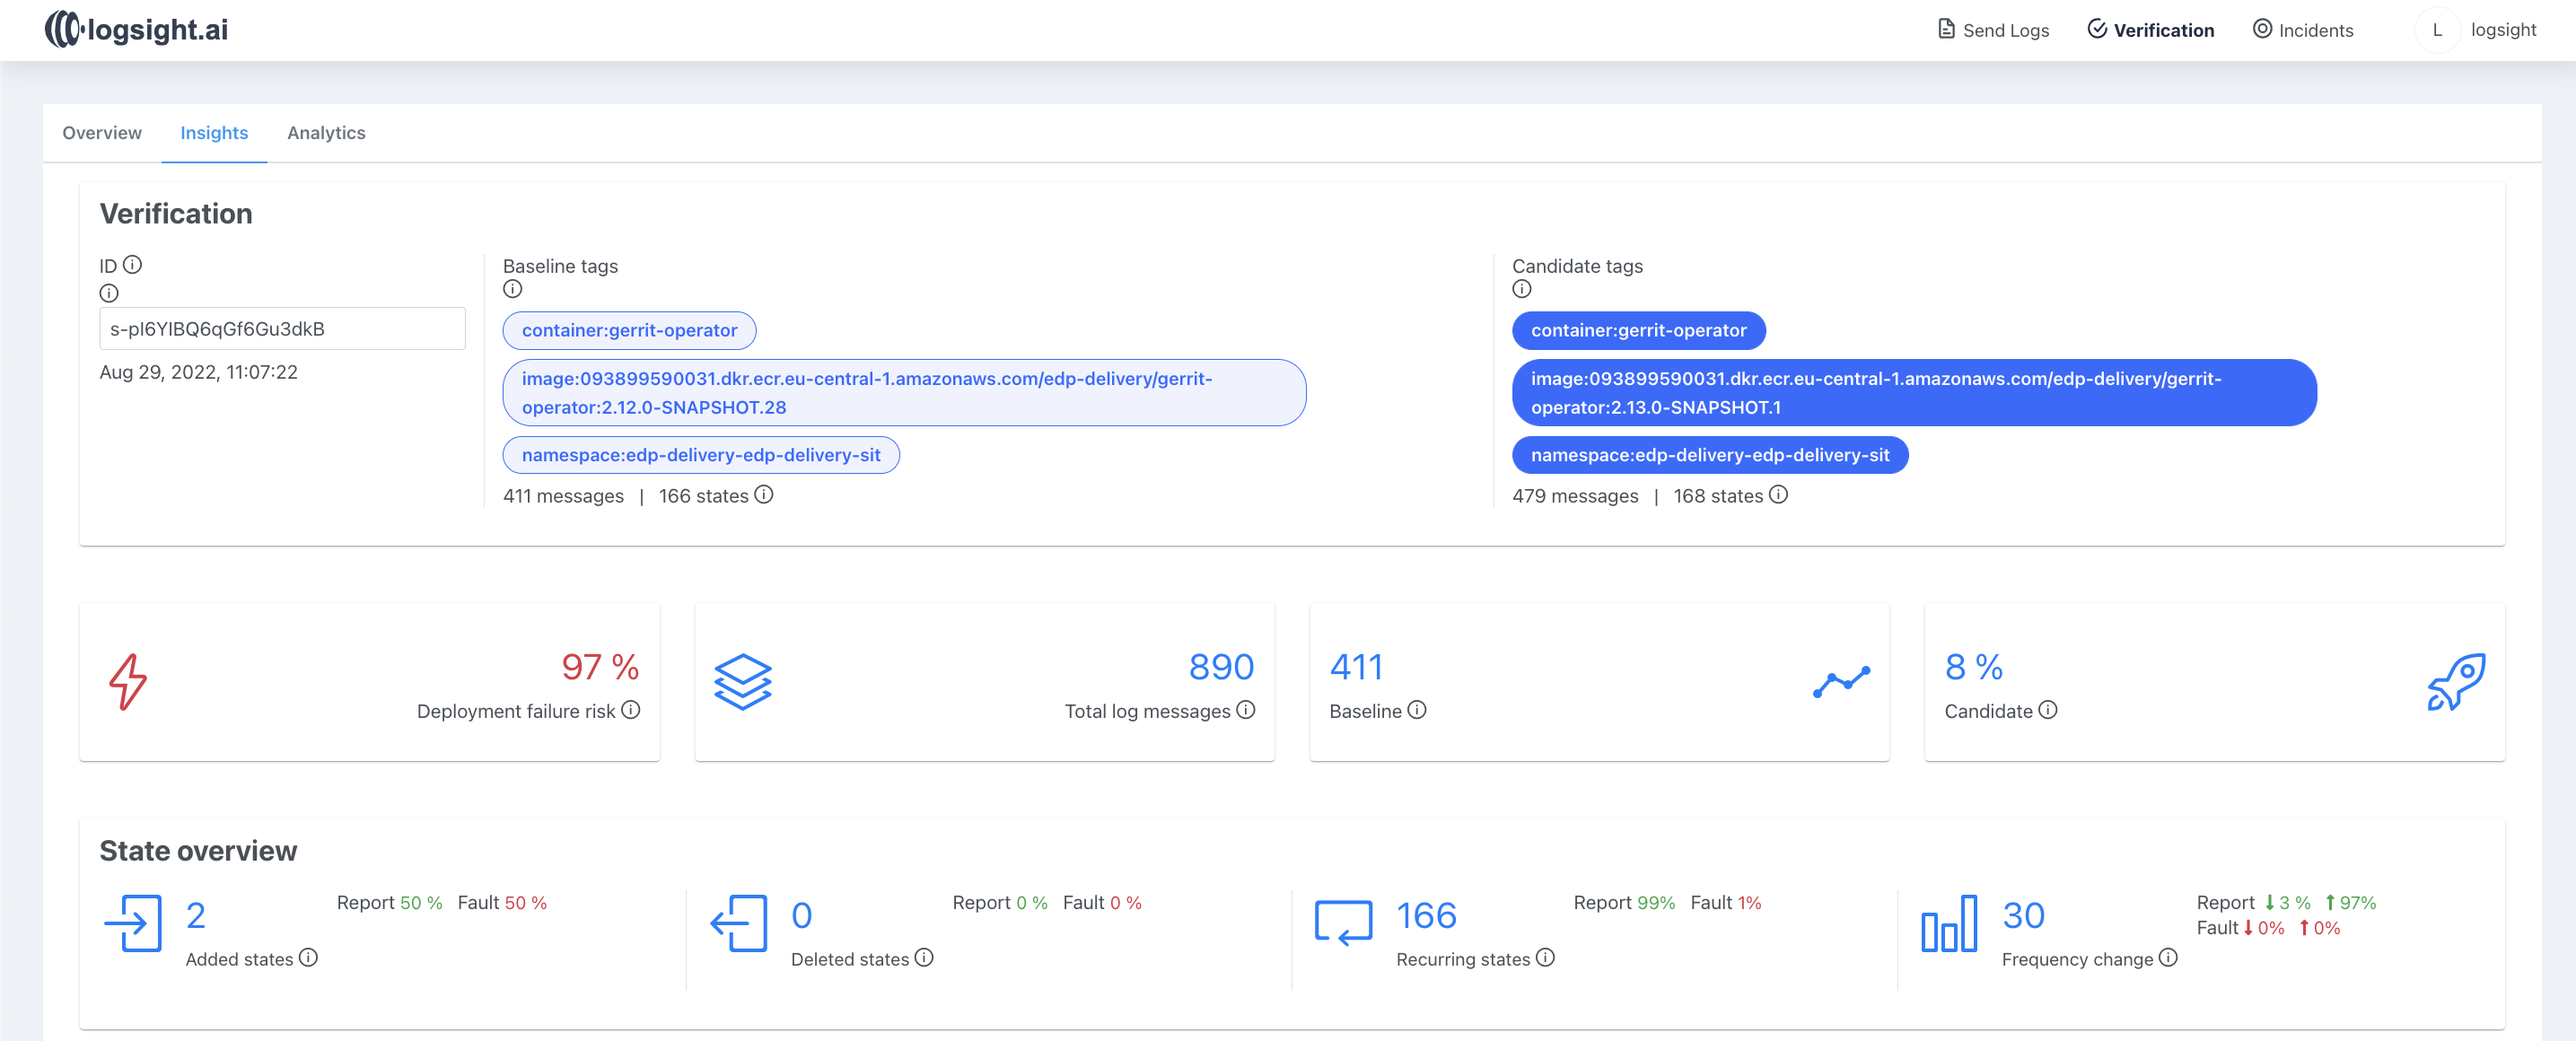
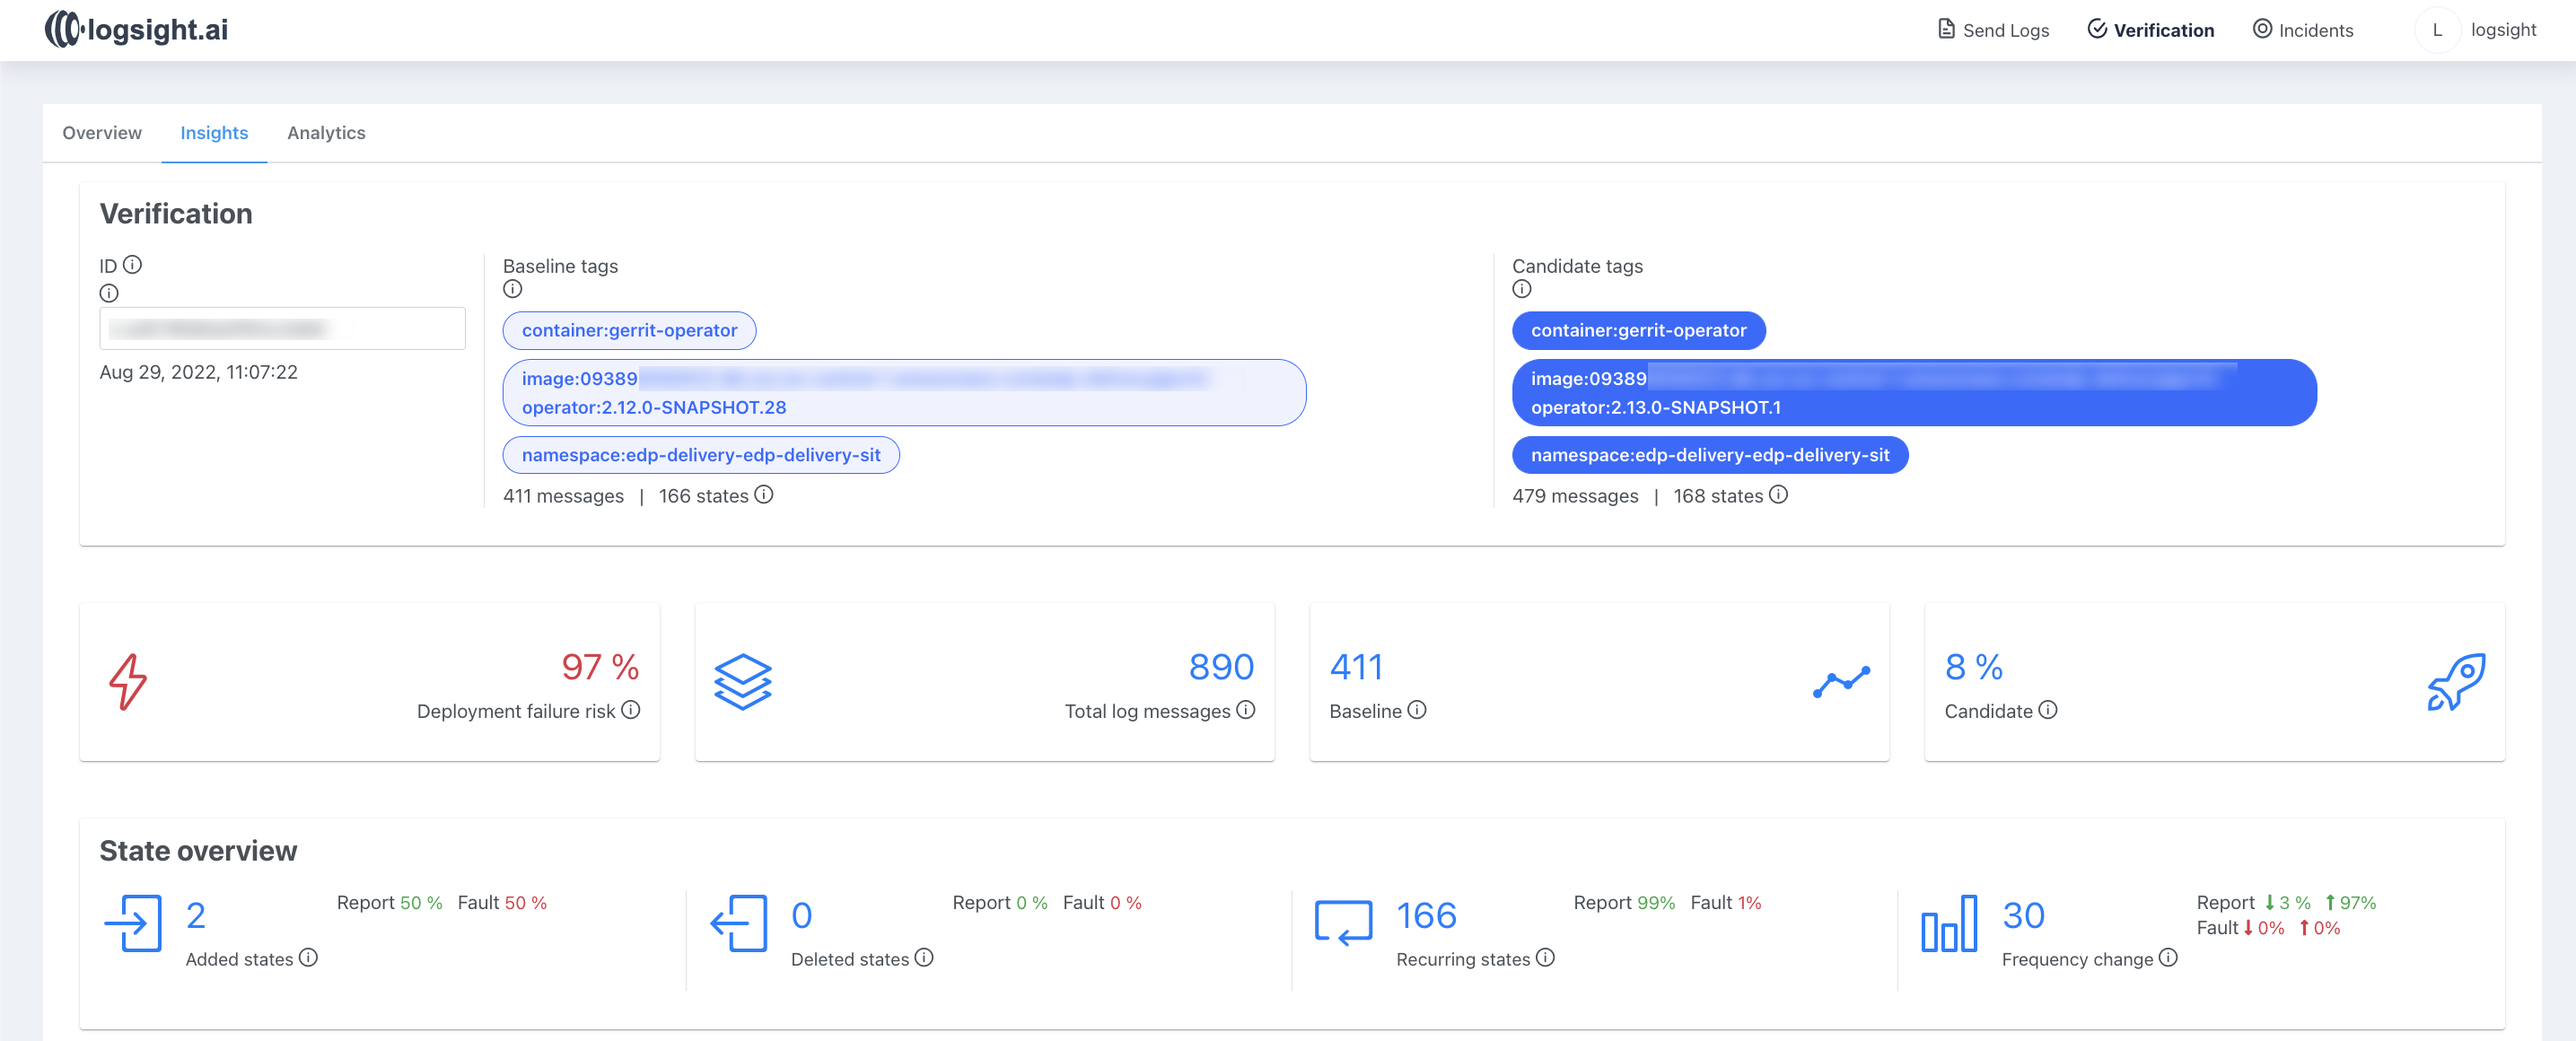
[EPMDEDP-10805]: docs: Updated Java 8 Gradle and Maven agents versions, blurred account ID on screenshot

Changed region(s): [[0.6202, 0.3414, 0.8683, 0.3724], [0.2481, 0.3414, 0.4652, 0.3724], [0.031, 0.3103, 0.124, 0.3414]]

diff --git a/docs/operator-guide/upgrade-edp-2.11.x-to-2.12.x.md b/docs/operator-guide/upgrade-edp-2.11.x-to-2.12.x.md
@@ -128,7 +128,7 @@ This section provides the details on the EDP upgrade from the v.2.11.x to the v.
       To verify the installation, it is possible to test the deployment before applying it to the cluster with the following command:<br>
       `helm upgrade edp epamedp/edp-install -n <edp-namespace> --values values.yaml --version=2.12.x  --dry-run`
 
-5. After the update, please remove the `gerrit-operator.gerrit.version` value. In this case, the default value will be used, and Gerrit will be updated to the `v3.6.1` version. Run the following command:
+7. After the update, please remove the `gerrit-operator.gerrit.version` value. In this case, the default value will be used, and Gerrit will be updated to the `v3.6.1` version. Run the following command:
 
         helm upgrade edp epamedp/edp-install -n <edp-namespace> --values values.yaml --version=2.12.x
 
@@ -136,7 +136,7 @@ This section provides the details on the EDP upgrade from the v.2.11.x to the v.
       To verify the installation, it is possible to test the deployment before applying it to the cluster with the following command:<br>
       `helm upgrade edp epamedp/edp-install -n <edp-namespace> --values values.yaml --version=2.12.x  --dry-run`
 
-6. Update image versions for the Jenkins agents in the *ConfigMap*:
+8. Update image versions for the Jenkins agents in the *ConfigMap*:
 
         kubectl edit configmap jenkins-slaves -n <edp-namespace>
 
@@ -147,10 +147,10 @@ This section provides the details on the EDP upgrade from the v.2.11.x to the v.
         epamedp/edp-jenkins-dotnet-31-agent:3.0.7
         epamedp/edp-jenkins-go-agent:3.0.11
         epamedp/edp-jenkins-gradle-java11-agent:3.0.5
-        epamedp/edp-jenkins-gradle-java8-agent:3.0.5
+        epamedp/edp-jenkins-gradle-java8-agent:3.0.7
         epamedp/edp-jenkins-helm-agent:3.0.8
         epamedp/edp-jenkins-maven-java11-agent:3.0.6
-        epamedp/edp-jenkins-maven-java8-agent:3.0.6
+        epamedp/edp-jenkins-maven-java8-agent:3.0.8
         epamedp/edp-jenkins-npm-agent:3.0.7
         epamedp/edp-jenkins-opa-agent:3.0.5
         epamedp/edp-jenkins-python-38-agent:3.0.5
@@ -242,9 +242,9 @@ This section provides the details on the EDP upgrade from the v.2.11.x to the v.
 
    * Restart the Jenkins pod.
 
-7. Update Jenkins provisioners according to the [Manage Jenkins CI Pipeline Job Provisioner](../operator-guide/manage-jenkins-ci-job-provision.md) instruction.
+9. Update Jenkins provisioners according to the [Manage Jenkins CI Pipeline Job Provisioner](../operator-guide/manage-jenkins-ci-job-provision.md) instruction.
 
-8. Restart the `codebase-operator`, to recreate the Code Review and Build pipelines for the codebases.
+10. Restart the `codebase-operator`, to recreate the Code Review and Build pipelines for the codebases.
 
 !!! Warning
     In case there are different EDP versions on one cluster, the following error may occur on the `init` stage of Jenkins Groovy pipeline: `java.lang.NumberFormatException: For input string: ""`. To fix this issue, please run the following command using [`kubectl` v1.24.4+](https://github.com/kubernetes/kubernetes/blob/master/CHANGELOG/CHANGELOG-1.24.md):
